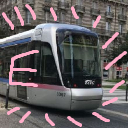
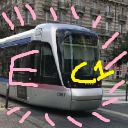
Added clic on status bar + C1 stop

Changed region(s): [[0.5312, 0.4688, 0.9062, 0.6562]]

diff --git a/src/timestatusbar.ts b/src/timestatusbar.ts
@@ -3,19 +3,32 @@ import * as request from 'request-promise-native';
 
 export class TimeStatusBar {
     statusBarItem: vscode.StatusBarItem;
-    stop?: string;
     timer_waiting: NodeJS.Timer;
+    stops: Map<string, string>;
+    current_stop: string;
 
     constructor() {
         this.statusBarItem = vscode.window.createStatusBarItem(vscode.StatusBarAlignment.Right, 100);
         this.timer_waiting = setInterval(() => this.update(), 60000);
+
+        this.stops = new Map<string, string>();
+        this.stops.set('TRAM E: Rafour -> Grenoble','SEM:3234');
+        this.stops.set('BUS C1: INRIA -> Grenoble','SEM:4527');
+
+        const def_val = 'SEM:3234';
+        const def_key = 'TRAM E: Rafour -> Grenoble';
+        this.current_stop = vscode.workspace.getConfiguration('rafourtimes').get('stop') || def_val;
+        this.statusBarItem.tooltip = [...this.stops.entries()].filter(({ 1: v }) => v === this.current_stop).map(([k]) => k)[0] || def_key; // beurk !
+
     }
 
     update(): void {
         (async () => {
-            let stop_id = vscode.workspace.getConfiguration('rafourtimes').get('stop');
             var options = {
-                uri: "http://data.metromobilite.fr/api/routers/default/index/stops/" + stop_id + "/stoptimes",
+                uri: "https://data.mobilites-m.fr/api/routers/default/index/stops/"+ this.current_stop + "/stoptimes",
+                headers: {
+                    'Origin' : "http://rafourtimes.vscode.com"
+                }
             };
             const result = await request.get(options);
             let stoptimes: Stoptimes[] = JSON.parse(result);
@@ -68,6 +81,18 @@ export class TimeStatusBar {
         let dateTime = new Date();
         let current_time = dateTime.getHours() * 3600 + dateTime.getMinutes() * 60;
         return tcode - current_time;
+    }
+
+    changeStop() {
+        vscode.window.showQuickPick([...this.stops.keys()], {
+            placeHolder: 'Choose stop and direction',
+            onDidSelectItem: item => {
+                this.current_stop = this.stops.get(item.toString()) || this.current_stop;
+                vscode.workspace.getConfiguration('rafourtimes').update('stop',this.current_stop,true);
+                this.statusBarItem.tooltip = item.toString();
+                this.update();
+            }
+        });
     }
 
     dispose() {

diff --git a/src/extension.ts b/src/extension.ts
@@ -3,6 +3,11 @@ import { TimeStatusBar } from "./timestatusbar";
 
 let time_sb = new TimeStatusBar();
 export function activate(context: vscode.ExtensionContext) {
+	const chooseStopId = 'rafourtimes.chooseStop';
+	context.subscriptions.push(vscode.commands.registerCommand(chooseStopId, () => {
+		time_sb.changeStop();
+	}));
+	time_sb.statusBarItem.command = chooseStopId;
 	context.subscriptions.push(time_sb.statusBarItem);
 	time_sb.update();
 }

diff --git a/CHANGELOG.md b/CHANGELOG.md
@@ -1,9 +1,10 @@
-# Change Log
-
-All notable changes to the "rafourtimes" extension will be documented in this file.
-
-Check [Keep a Changelog](http://keepachangelog.com/) for recommendations on how to structure this file.
-
-## [Unreleased]
-
+# Changelog
+## 0.4.0
+- Added clic on status bar to choose between predefined stops
+- Added C1 Inria to Grenoble stop
+## 0.3.0
+- Correct api calls
+## 0.2.0
+- Correct invalid times
+## 0.1.0
 - Initial release
